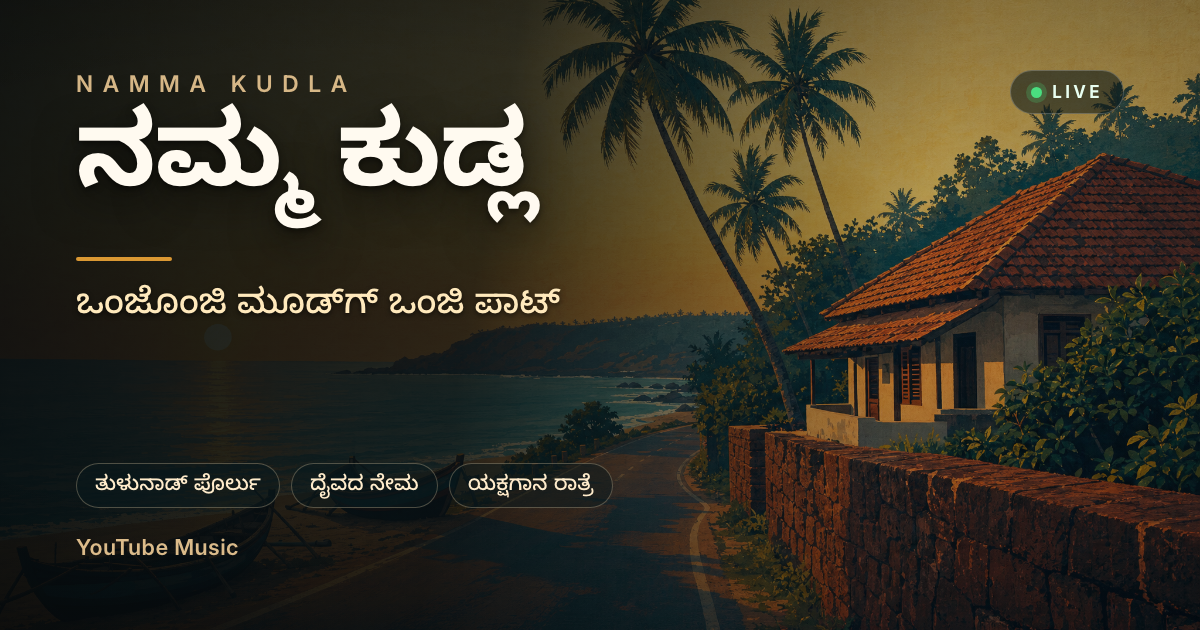
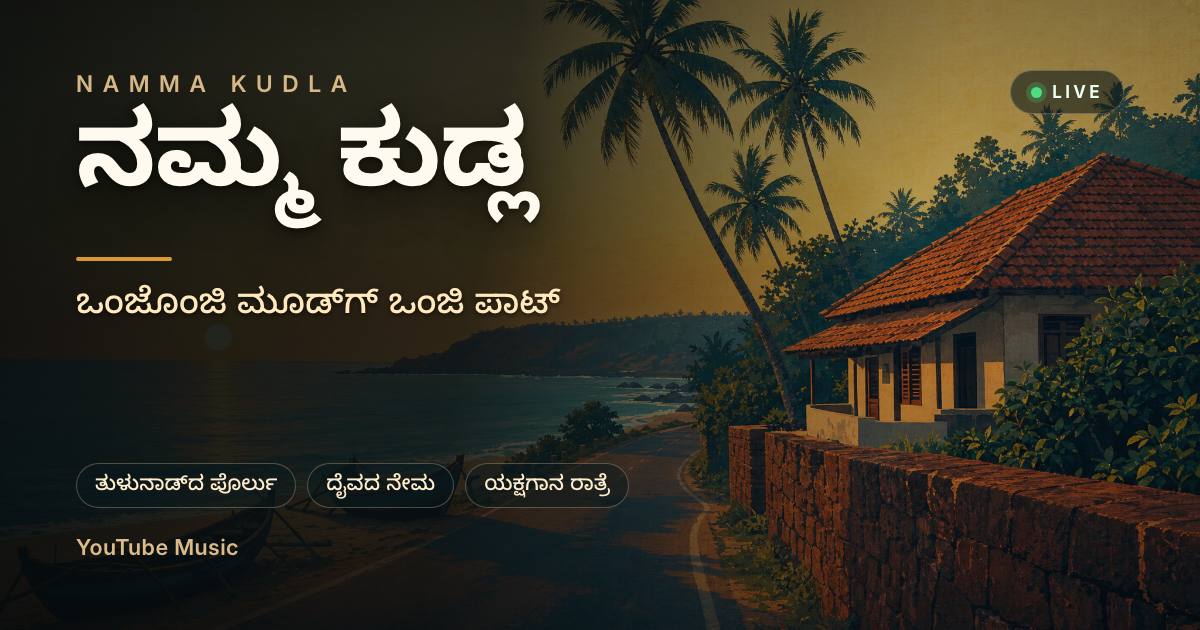
Take the Tulu genitive, and trade an accurate lang tag for a usable one
ತುಳುನಾಡ್ takes ದ when it modifies a noun, so the hero is ತುಳುನಾಡ್ದ ರೇಡಿಯೋ and the
mood is ತುಳುನಾಡ್ದ ಪೊರ್ಲು. The bare form survives only in the header, where
ಕುಡ್ಲ, ತುಳುನಾಡ್ is a place label rather than a modifier. The social card is
regenerated because the mood name is painted into it.

<html lang> drops from tcy-Knda to kn-IN, which is wrong about the language and
right about everything a browser can do with it. Chrome's translator reports
tcy and tcy-Knda as unavailable and kn as downloadable, so the accurate tag was
silently costing every reader the translate prompt and buying no screen-reader
support in return — there is no Tulu voice. The honest claim stays where it is
machine-readable: StructuredData still publishes inLanguage tcy-Knda.

Each mood also gets its own footer aside, and verify-site stops looking for the
ಮೂಡ್ ಬದಲ್ button that a native review already replaced with ಬೇತೆ ಮೂಡ್.

Changed region(s): [[0.1542, 0.7238, 0.5242, 0.8143]]

diff --git a/src/data/stations.ts b/src/data/stations.ts
@@ -10,7 +10,7 @@
  * REVIEW: every Tulu string in this file was written by a non-speaker and needs
  * a native check before this ships. The names are the ones most worth getting
  * right — they are the first words anyone reads.
- *   nameTulu "ತುಳುನಾಡ್ ಪೊರ್ಲು"  — intended: "the beauty of Tulu Nadu"
+ *   nameTulu "ತುಳುನಾಡ್ದ ಪೊರ್ಲು"  — intended: "the beauty of Tulu Nadu"
  *   nameTulu "ದೈವದ ನೇಮ"        — intended: the daiva ritual/nema
  *   nameTulu "ಯಕ್ಷಗಾನ ರಾತ್ರೆ"    — intended: "Yakshagana night"
  */
@@ -52,6 +52,17 @@ export interface Station {
   nameTulu: string;
   nameEnglish: string;
   description: string;
+  /**
+   * The aside in the bottom-left corner, written for this mood's scene.
+   *
+   * One line per station rather than one for the site: it sits on the artwork,
+   * so a single line has to be vague enough to suit a sunset, a torchlit grove
+   * and a night stage at once, and vague is the one thing this kind of line
+   * cannot be.
+   *
+   * REVIEW: Tulu, written by a non-speaker. See the note at the top.
+   */
+  footerNote: string;
   backgroundVariant: BackgroundVariant;
   theme: StationTheme;
   /**
@@ -86,9 +97,10 @@ export function hasSpotify(station: Station): station is SpotifyStation {
 export const STATIONS: Station[] = [
   {
     id: "tulunad-porlu",
-    nameTulu: "ತುಳುನಾಡ್ ಪೊರ್ಲು",
+    nameTulu: "ತುಳುನಾಡ್ದ ಪೊರ್ಲು",
     nameEnglish: "Tulu Nadu Beauty",
     description: "Coast road, coconut palms, the songs everyone here knows.",
+    footerNote: "ಗಟ್ಟದ ರೋಡ್ಡ್ ಜಾಗ್ರತೆ. ಪಾಟ್ ಮಾತ್ರ unlimited.",
     backgroundVariant: "tulunad-porlu",
     theme: {
       accent: "#EFA637",
@@ -102,14 +114,15 @@ export const STATIONS: Station[] = [
       backgroundPosition: "center 44%",
       backgroundPositionPortrait: "46% 48%",
     },
-    youtubePlaylistUrl: "https://www.youtube.com/playlist?list=PLFuuGDgqMKLFohHVlevfcrnabmd7-iIIO",
-    youtubePlaylistId: "PLFuuGDgqMKLFohHVlevfcrnabmd7-iIIO",
+    youtubePlaylistUrl: "https://www.youtube.com/playlist?list=PLZ840zjql5kI",
+    youtubePlaylistId: "PLZ840zjql5kI",
   },
   {
     id: "daivada-nema",
     nameTulu: "ದೈವದ ನೇಮ",
     nameEnglish: "Daiva Nema",
     description: "Torchlight in the grove, drums from somewhere behind you.",
+    footerNote: "ಚೆಂಡೆ ಬೊಳ್ಪು ಮುಟ್ಟ. ಪಾಟ್ ಮಾತ್ರ unlimited.",
     backgroundVariant: "daivada-nema",
     theme: {
       accent: "#E2703A",
@@ -131,6 +144,7 @@ export const STATIONS: Station[] = [
     nameTulu: "ಯಕ್ಷಗಾನ ರಾತ್ರೆ",
     nameEnglish: "Yakshagana Night",
     description: "An all-night stage in a field, and nobody goes home early.",
+    footerNote: "ಗದ್ದೆಡ್ ಇಡೀ ಊರು. ಪಾಟ್ ಮಾತ್ರ unlimited.",
     backgroundVariant: "yakshagana-ratri",
     theme: {
       accent: "#E0A33C",

diff --git a/src/lib/site.ts b/src/lib/site.ts
@@ -8,7 +8,7 @@
  * use among themselves, which is the register this whole site is written in.
  *
  * REVIEW: the Tulu strings below need a native check. Best-effort intent:
- *   heroTitleTulu "ತುಳುನಾಡ್ ರೇಡಿಯೋ"            — "Tulu Nadu Radio"
+ *   heroTitleTulu "ತುಳುನಾಡ್ದ ರೇಡಿಯೋ"            — "Tulu Nadu Radio"
  *   taglineTulu   "ಒಂಜೊಂಜಿ ಮೂಡ್ಗ್ ಒಂಜಿ ಪಾಟ್"  — "for each mood, one song"
  *   descriptionTulu                            — the meta description, same sense as `description`
  */
@@ -25,7 +25,7 @@ export const SITE = {
    * part of the illustration and describes the thing you are listening to,
    * while ನಮ್ಮ ಕುಡ್ಲ is how the site is titled, shared and found.
    */
-  heroTitleTulu: "ತುಳುನಾಡ್ ರೇಡಿಯೋ",
+  heroTitleTulu: "ತುಳುನಾಡ್ದ ರೇಡಿಯೋ",
   taglineTulu: "ಒಂಜೊಂಜಿ ಮೂಡ್ಗ್ ಒಂಜಿ ಪಾಟ್",
   taglineEnglish: "A song for every Tulu Nadu mood",
   /**
@@ -39,11 +39,20 @@ export const SITE = {
   descriptionTulu:
     "ತುಳುನಾಡ್ದ ಮೂಜಿ ಮೂಡ್, ಒಂಜೊಂಜಿಗ್ ಒಂಜಿ ಪಾಟ್ದ ಪಟ್ಟಿ. YouTube Musicಡ್ ಕೇನುಲೆ.",
   /**
-   * tcy is Tulu. The script is Kannada, hence tcy-Knda on <html lang> — the
-   * language is not Kannada even though every glyph on the page is.
+   * The page is Tulu (tcy) written in Kannada script, and tcy-Knda is what it
+   * should say. It doesn't, deliberately: no browser can do anything with tcy.
+   * Chrome's translator reports `unavailable` for both tcy and tcy-Knda while
+   * kn is `downloadable`, so declaring the accurate tag costs a reader the
+   * translate prompt entirely and buys nothing — and no screen reader has a
+   * Tulu voice either, so a Kannada one reading Kannada glyphs is as close as
+   * this text can get to being pronounced correctly.
+   *
+   * So the browser-facing tags say Kannada and the machine-readable claim stays
+   * honest: StructuredData still publishes inLanguage: tcy-Knda, which is the
+   * signal search engines actually index. Revisit if Chrome ever ships tcy.
    */
-  locale: "tcy_IN",
-  htmlLang: "tcy-Knda",
+  locale: "kn_IN",
+  htmlLang: "kn-IN",
   altLocale: "en_IN",
   themeColor: "#0d2a30",
   backgroundColor: "#071a1f",

diff --git a/src/components/Footer.tsx b/src/components/Footer.tsx
@@ -1,18 +1,24 @@
+import type { Station } from "@/data/stations";
 import { AUTHOR } from "@/lib/site";
+
+interface FooterProps {
+  station: Station;
+}
 
 /**
  * One byline, not a link farm. Every profile is still claimed for search
  * engines through the `rel="me"` links in the document head and the author's
  * `sameAs` array in the JSON-LD graph — none of which needs to crowd the
  * corner of the artwork to count.
+ *
+ * The line above it belongs to whichever mood is showing, so it can talk about
+ * the picture it is sitting on. See `footerNote` in stations.ts.
  */
-export function Footer() {
+export function Footer({ station }: FooterProps) {
   return (
     <footer className="pointer-events-none fixed bottom-[max(0.5rem,env(safe-area-inset-bottom))] left-[max(0.75rem,env(safe-area-inset-left))] z-10 hidden max-w-[240px] sm:block lg:max-w-[280px]">
-      {/* REVIEW (Tulu): intended as "careful on the ghat road. Only the songs
-          are unlimited." */}
-      <p className="font-kannada text-[10px] leading-snug text-amber-100/40">
-        ಗಟ್ಟದ ರೋಡ್ಡ್ ಜಾಗ್ರತೆ. ಪಾಟ್ ಮಾತ್ರ unlimited.
+      <p key={station.id} className="animate-overlay-fade font-kannada text-[10px] leading-snug text-amber-100/40">
+        {station.footerNote}
       </p>
       <a
         href={AUTHOR.links.x}

diff --git a/src/components/scene/AmbientLayer.tsx b/src/components/scene/AmbientLayer.tsx
@@ -62,7 +62,7 @@ const anchorY = (percent: number) => `calc(50% + (${percent}% - 50%) * var(--sce
 /** A width measured on the painting, which has to shrink with the same crop. */
 const spanX = (percent: number) => `calc(${percent}% * var(--scene-fx, 1))`;
 
-/* --- ತುಳುನಾಡ್ ಪೊರ್ಲು: the coast road at sunset -------------------------- */
+/* --- ತುಳುನಾಡ್ದ ಪೊರ್ಲು: the coast road at sunset -------------------------- */
 
 /**
  * Glints on the swell. Held to the left of frame because that is where the sea

diff --git a/src/components/RadioApp.tsx b/src/components/RadioApp.tsx
@@ -84,7 +84,7 @@ export function RadioApp() {
         />
       )}
 
-      <Footer />
+      <Footer station={activeStation} />
 
       <StationSelector
         isOpen={hasEntered && isSelectorOpen}

diff --git a/scripts/verify-site.py b/scripts/verify-site.py
@@ -20,7 +20,7 @@ OUT = Path(__file__).resolve().parent.parent / "tmp" / "verify"
 OUT.mkdir(parents=True, exist_ok=True)
 
 VIEWPORTS = [("desktop", 1440, 900), ("phone", 390, 844)]
-MOODS = ["ತುಳುನಾಡ್ ಪೊರ್ಲು", "ದೈವದ ನೇಮ", "ಯಕ್ಷಗಾನ ರಾತ್ರೆ"]
+MOODS = ["ತುಳುನಾಡ್ದ ಪೊರ್ಲು", "ದೈವದ ನೇಮ", "ಯಕ್ಷಗಾನ ರಾತ್ರೆ"]
 
 
 def main() -> None:
@@ -52,7 +52,7 @@ def main() -> None:
             print(f"[{label}] title after entering: {page.title()}")
 
             for index, mood in enumerate(MOODS[1:], start=3):
-                page.get_by_role("button", name="ಮೂಡ್ ಬದಲ್", exact=False).first.click()
+                page.get_by_role("button", name="ಬೇತೆ ಮೂಡ್", exact=False).first.click()
                 page.wait_for_timeout(900)
                 if index == 3:
                     page.screenshot(path=OUT / f"{label}-sheet.png")

diff --git a/scripts/generate-brand-assets.py b/scripts/generate-brand-assets.py
@@ -46,7 +46,7 @@ NAME_KN = "ನಮ್ಮ ಕುಡ್ಲ"
 NAME_LATIN = "Namma Kudla"
 TAGLINE_KN = "ಒಂಜೊಂಜಿ ಮೂಡ್ಗ್ ಒಂಜಿ ಪಾಟ್"
 MOODS = [
-    "ತುಳುನಾಡ್ ಪೊರ್ಲು",
+    "ತುಳುನಾಡ್ದ ಪೊರ್ಲು",
     "ದೈವದ ನೇಮ",
     "ಯಕ್ಷಗಾನ ರಾತ್ರೆ",
 ]

diff --git a/README.md b/README.md
@@ -7,26 +7,45 @@ scene that changes per mood, with a floating glass player wired to real
 YouTube playlists.
 
 Namma Kudla is how the site is titled, shared and found; the scene itself is
-headed ತುಳುನಾಡ್ ರೇಡಿಯೋ, because the hero reads as part of the illustration and
+headed ತುಳುನಾಡ್ದ ರೇಡಿಯೋ, because the hero reads as part of the illustration and
 should describe what you are listening to rather than repeat the brand.
 
 ## The Tulu copy needs a native review
 
 Every Tulu string in this repo was written by a non-speaker working from
 reference, and is marked `REVIEW` at its definition. They are concentrated in
-two files — `src/data/stations.ts` (the mood names) and `src/lib/site.ts` (the
-hero, tagline and meta description) — plus four UI strings in `Footer`,
-`Player`, `StationSelector` and `FirstVisitOverlay`. Fix them before this is
-shown to anyone from Tulu Nadu.
+two files — `src/data/stations.ts` (the mood names and the per-mood footer
+asides) and `src/lib/site.ts` (the hero, tagline and meta description) — plus
+three UI strings in `Player`, `StationSelector` and `FirstVisitOverlay`. Fix
+them before this is shown to anyone from Tulu Nadu.
+
+Two have already come back from a native speaker: "change mood" was ಮೂಡ್ ಬದಲ್,
+which is not a Tulu imperative, and is now ಬೇತೆ ಮೂಡ್ ("another mood"); and
+ತುಳುನಾಡ್ takes the genitive ದ when it modifies a noun, so the hero is
+ತುಳುನಾಡ್ದ ರೇಡಿಯೋ and the mood is ತುಳುನಾಡ್ದ ಪೊರ್ಲು. The bare form survives only
+in `Header`, where ಕುಡ್ಲ, ತುಳುನಾಡ್ is a place label rather than a modifier.
 
 Tulu is written in Kannada script here, which is what Tulu speakers actually
 use. The Tulu-Tigalari Unicode block exists but has effectively no font support.
-So `font-kannada` throughout the app names the script, not the language, and
-`<html lang>` is `tcy-Knda` — Tulu, in the Kannada script.
+So `font-kannada` throughout the app names the script, not the language.
+
+`<html lang>` should be `tcy-Knda` and isn't — it says `kn-IN`. Nothing in a
+browser can act on `tcy`: Chrome's translator reports `unavailable` for both
+`tcy` and `tcy-Knda` while `kn` is `downloadable`, so the accurate tag silently
+costs every reader the "translate this page" prompt, and there is no Tulu
+screen-reader voice for it to buy instead. A Kannada voice reading Kannada
+glyphs is the closest this text gets to being pronounced right. The honest claim
+still ships where it is machine-readable and acted on — `StructuredData` sets
+`inLanguage: tcy-Knda`. Worth revisiting if Chrome ever ships a `tcy` model:
+
+```sh
+# in the browser console, on the deployed site
+await Translator.availability({ sourceLanguage: 'tcy', targetLanguage: 'en' })
+```
 
 ## The site says "from Tulu Nadu", not "in Tulu", on purpose
 
-ತುಳುನಾಡ್ ಪೊರ್ಲು is Tulu-language throughout and ದೈವದ ನೇಮ is Tulu devotional, but
+ತುಳುನಾಡ್ದ ಪೊರ್ಲು is Tulu-language throughout and ದೈವದ ನೇಮ is Tulu devotional, but
 ಯಕ್ಷಗಾನ ರಾತ್ರೆ is sung in Kannada. Yakshagana belongs to this coast without
 belonging to the language. It is also the deepest playlist of the three at 79
 tracks, so it stays — and the meta copy describes the region rather than
